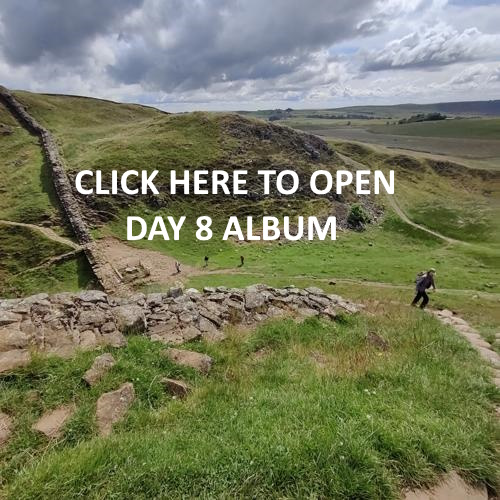
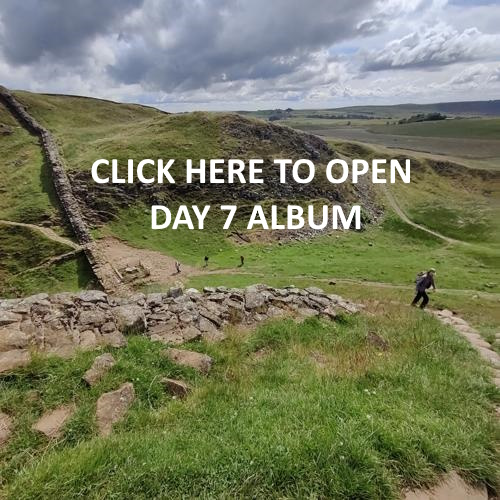
Edits of rescheduled HWP days

Changed region(s): [[0.15, 0.3, 0.84, 0.48]]

diff --git a/src/Hwp2024.js b/src/Hwp2024.js
@@ -35,7 +35,7 @@ export default function Hwp2024() {
         < div className="hwpDailyNarrative">
           <div>If this were a novel, it might possibly commence with the following....... <br /> <br /></div>
           <em>'When they looked back afterwards, no one could quite recall how they had arrived 
-            at the decision to walk this 73 mile wild and windswept path from the East to the West Coast of England, encompassing both current-day Northumberland and Cumbria. 
+            at the decision to walk this 84 mile wild and windswept path from the East to the West Coast of England, encompassing both current-day Northumberland and Cumbria. 
             Or at least, if anyone did recall, no one was now admitting to it, in case they might have to accept responsibility....'
             <br />
             <br /> 
@@ -164,7 +164,7 @@ export default function Hwp2024() {
 
       
       <div className="datenewsDivHwp">
-            <section className="newsheaderHwp"><strong>Day 6 - Chollerford to Brocolitia/Carrawburgh Roman Fort</strong></section>
+            <section className="newsheaderHwp"><strong>Day 5 - Chollerford to Brocolitia/Carrawburgh Roman Fort</strong></section>
             <section className="dateHwp">29th June 2024, Saturday</section>
              <div className="newsHwp">
              <div className="componentWalkDetails">     
@@ -279,7 +279,7 @@ export default function Hwp2024() {
       </div>
 
       <div className="datenewsDivHwp">
-            <section className="newsheaderHwp"><strong>Day 7 - Brocolitia/Carrawburgh Roman Fort to Housesteads Roman Fort</strong></section>
+            <section className="newsheaderHwp"><strong>Day 6 - Brocolitia/Carrawburgh Roman Fort to Housesteads Roman Fort</strong></section>
             <section className="dateHwp">30th June 2024, Sunday</section>
              <div className="newsHwp">
              <div className="componentWalkDetails">     
@@ -377,7 +377,7 @@ export default function Hwp2024() {
       </div>
 
       <div className="datenewsDivHwp">
-            <section className="newsheaderHwp"><strong>Day 8 - Housesteads Roman Fort to Cawfield Quarry - (PS: This is the best day of the walk!)</strong></section>
+            <section className="newsheaderHwp"><strong>Day 7 - Housesteads Roman Fort to Cawfield Quarry - (PS: This is the best day of the walk!)</strong></section>
             <section className="dateHwp">6th July 2024, Saturday</section>
              <div className="newsHwp">
              <div className="componentWalkDetails">     
@@ -453,7 +453,7 @@ export default function Hwp2024() {
 
 
       <div className="datenewsDivHwp">
-            <section className="newsheaderHwp"><strong>Day 9 - Cawfields Quarry to Gilsland</strong></section>
+            <section className="newsheaderHwp"><strong>Day 8 - Cawfields Quarry to Gilsland</strong></section>
             <section className="dateHwp">7th July 2024, Sunday</section>
              <div className="newsHwp">
              <div className="componentWalkDetails">     
